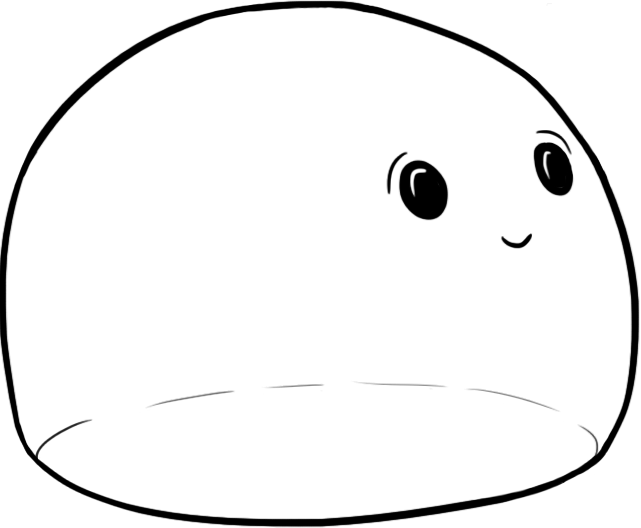
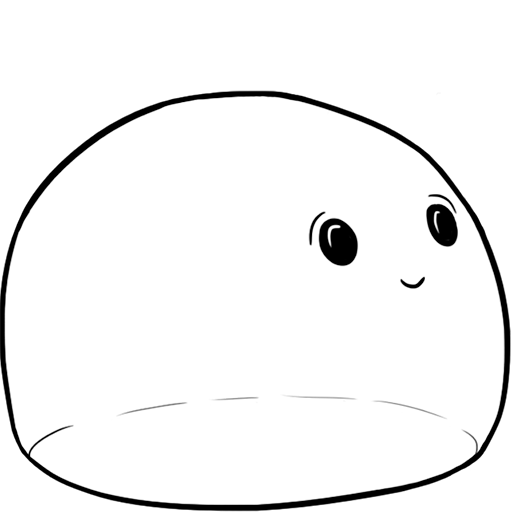
New Graphics

diff --git a/src/main/PlayerGameEntity.java b/src/main/PlayerGameEntity.java
@@ -12,6 +12,7 @@ public class PlayerGameEntity extends AnimatedPhysicsGameEntity{
 	float jumpForce;
 	private long cooldownTime;
 	float jumpCountdown,canStilJumpTime;
+	boolean jumpingAnim = false;
 
 	public PlayerGameEntity(Vector2f pos, Vector2f size, String path, int state, int stateCount,
 			float secPerState, Vector2f vel, Vector2f acc, float friction, float jumpForce, float jumpCountdown) {
@@ -21,20 +22,35 @@ public class PlayerGameEntity extends AnimatedPhysicsGameEntity{
 	}
 
 	public void updateInput(){
-//		if ((Keyboard.isKeyDown(Keyboard.KEY_W)||Keyboard.isKeyDown(Keyboard.KEY_SPACE))&&grounded) {
-//			vel.setY(-jumpForce);
-//			canJump = false;
-//		}
-//		if (Keyboard.isKeyDown(Keyboard.KEY_A)){
-//			Vector2f.add(vel,new Vector2f(-0.01f,0),vel);
-//			isWalking = Direction.LEFT;
-//		} else if (Keyboard.isKeyDown(Keyboard.KEY_D)){
-//			Vector2f.add(vel,new Vector2f(0.01f,0),vel);
-//			isWalking = Direction.RIGHT;
-//		} //else {
-//			isWalking = Direction.NONE;
-//		}
-		String cs = ArduinoCommunication.currentInput;
+		if ((Keyboard.isKeyDown(Keyboard.KEY_W)||Keyboard.isKeyDown(Keyboard.KEY_SPACE))&&grounded) {
+			vel.setY(-jumpForce);
+			canJump = false;
+			jumpingAnim = true;
+		}
+		if (Keyboard.isKeyDown(Keyboard.KEY_A)){
+			Vector2f.add(vel,new Vector2f(-0.01f,0),vel);
+			isWalking = Direction.LEFT;
+		} else if (Keyboard.isKeyDown(Keyboard.KEY_D)){
+			Vector2f.add(vel,new Vector2f(0.01f,0),vel);
+			isWalking = Direction.RIGHT;
+		} //else {
+		//isWalking = Direction.NONE;
+		//		}
+		if ((Keyboard.isKeyDown(Keyboard.KEY_W)||Keyboard.isKeyDown(Keyboard.KEY_SPACE))&&grounded) {
+			vel.setY(-jumpForce);
+			canJump = false;
+		}
+		if (Keyboard.isKeyDown(Keyboard.KEY_A)){
+			Vector2f.add(vel,new Vector2f(-0.01f,0),vel);
+			isWalking = Direction.LEFT;
+		} else if (Keyboard.isKeyDown(Keyboard.KEY_D)){
+			Vector2f.add(vel,new Vector2f(0.01f,0),vel);
+			isWalking = Direction.RIGHT;
+		} else {
+			isWalking = Direction.NONE;
+		}
+		
+		/*String cs = ArduinoCommunication.currentInput;
 		//System.out.println(cs);
 		//System.out.println(Character.getNumericValue(cs.charAt(0)));
 		if(Character.getNumericValue(cs.charAt(0)) == 1){
@@ -51,20 +67,8 @@ public class PlayerGameEntity extends AnimatedPhysicsGameEntity{
 			System.out.println("JUMP");
 			vel.setY(-jumpForce);
 			canJump = false;
-		}
-//		if ((Keyboard.isKeyDown(Keyboard.KEY_W)||Keyboard.isKeyDown(Keyboard.KEY_SPACE))&&grounded) {
-//			vel.setY(-jumpForce);
-//			canJump = false;
-//		}
-//		if (Keyboard.isKeyDown(Keyboard.KEY_A)){
-//			Vector2f.add(vel,new Vector2f(-0.01f,0),vel);
-//			isWalking = Direction.LEFT;
-//		} else if (Keyboard.isKeyDown(Keyboard.KEY_D)){
-//			Vector2f.add(vel,new Vector2f(0.01f,0),vel);
-//			isWalking = Direction.RIGHT;
-//		} else {
-//			isWalking = Direction.NONE;
-//		}
+		}*/
+//		
 	}
 
 	public void update(){
@@ -74,6 +78,12 @@ public class PlayerGameEntity extends AnimatedPhysicsGameEntity{
 		else if(Main.getTime() - cooldownTime >= jumpCountdown){
 			canJump = true;
 			cooldownTime = Main.getTime();
+		}
+		if(jumpingAnim){
+			updateState(Direction.RIGHT);
+		}
+		if(state==stateCount-1){
+			jumpingAnim = false;
 		}
 	}
 }

diff --git a/src/main/World.java b/src/main/World.java
@@ -15,11 +15,12 @@ public class World {
 	List<AnimatedGameEntity> animatedGameEntities = new ArrayList<AnimatedGameEntity>();
 	List<TexturedPhysicsGameEntity> texturedPhysicsEntities = new ArrayList<TexturedPhysicsGameEntity>();
 	List<AnimatedPhysicsGameEntity> animatedPhysicsEntities = new ArrayList<AnimatedPhysicsGameEntity>();
-	public int levelWidth, groundHeight;
+	List<Trigger> triggers = new ArrayList<Trigger>();
+	public int levelWidth, groundHeight = -50;
 	private static TexturedGameEntity background;
 	//private static TexturedGameEntity[] background = new TexturedGameEntity[8];
 	private static Line ground;
-	float frictionGround = 1.005f;
+	float frictionGround = 1.02f;
 	
 	public World(int worldNumber){
 		readWorld(worldNumber);
@@ -57,8 +58,11 @@ public class World {
 			a.updateState(Direction.RIGHT);
 		}
 		
-		for(TexturedPhysicsGameEntity tp:texturedPhysicsEntities){
-			
+//		for(TexturedPhysicsGameEntity tp:texturedPhysicsEntities){
+//			
+//		}
+		for(Trigger tr:triggers){
+			tr.update(Main.p);
 		}
 		//updateBackground();
 	}
@@ -92,6 +96,9 @@ public class World {
 		}
 		for(AnimatedPhysicsGameEntity ap:animatedPhysicsEntities){
 			ap.render();
+		}
+		for(Trigger tr:triggers){
+			tr.render();
 		}
 		ground.render();
 	}
@@ -158,6 +165,10 @@ public class World {
 						new Vector2f(Float.parseFloat(object[12]), Float.parseFloat(object[13])),
 						Float.parseFloat(object[14])));
 				break;
+			case "trigger":
+				triggers.add(new Trigger(new Vector2f(Integer.parseInt(object[1]),Integer.parseInt(object[2])),
+						new Vector2f(Integer.parseInt(object[3]), Integer.parseInt(object[4])),
+						"world"+worldNumber+"/"+object[6]));
 			default:
 				System.out.println("Error reading file");
 				break;

diff --git a/src/main/Main.java b/src/main/Main.java
@@ -61,14 +61,16 @@ public class Main {
 		for(int i = 0; i<numOfWorlds; i++){
 			worlds[i] = new World(i);
 		}
-		p = new PlayerGameEntity(new Vector2f(screenWidth/2-50, 500), new Vector2f(400,400), "player", 0, 1, 0.1f,new Vector2f(0,0), new Vector2f(0,0.03f), 1, 5, 0.5f);//0.5f);
+		p = new PlayerGameEntity(new Vector2f(screenWidth/2, 300), new Vector2f(300,300), "slimejump", 0, 14, 0.05f,new Vector2f(0,0), new Vector2f(0,0.03f), 1, 5, 0.5f);//0.5f);
 		xCor = (screenWidth/2)-(p.getSize().x/2);
 	}
 	
 	private static void update() {
 		p.updateInput();
 		//System.out.println(p.isWalking);
-		p.updateState(p.isWalking);
+		//p.updateState(Direction.RIGHT);
+		
+			
 		
 		worlds[currentWorld].update();
 		

diff --git a/src/main/Trigger.java b/src/main/Trigger.java
@@ -1,0 +1,17 @@
+package main;
+
+import org.lwjgl.util.vector.Vector2f;
+
+public class Trigger extends TexturedGameEntity{
+
+	public Trigger(Vector2f pos, Vector2f size, String path) {
+		super(pos, size, path);
+		// TODO Auto-generated constructor stub
+	}
+
+	public void update(AnimatedPhysicsGameEntity player){
+		if(Collision.detectCollision(player, this)){
+			player.pos = new Vector2f(Main.screenWidth/2,200);
+		}
+	}
+}

diff --git a/src/main/AnimatedGameEntity.java b/src/main/AnimatedGameEntity.java
@@ -6,7 +6,8 @@ import org.newdawn.slick.Color;
 
 public class AnimatedGameEntity extends TexturedGameEntity{
 
-	private int state, stateCount;
+	protected int state;
+	protected int stateCount;
 	private float coordDivision,secPerState;
 	private long lastTime;
 	
